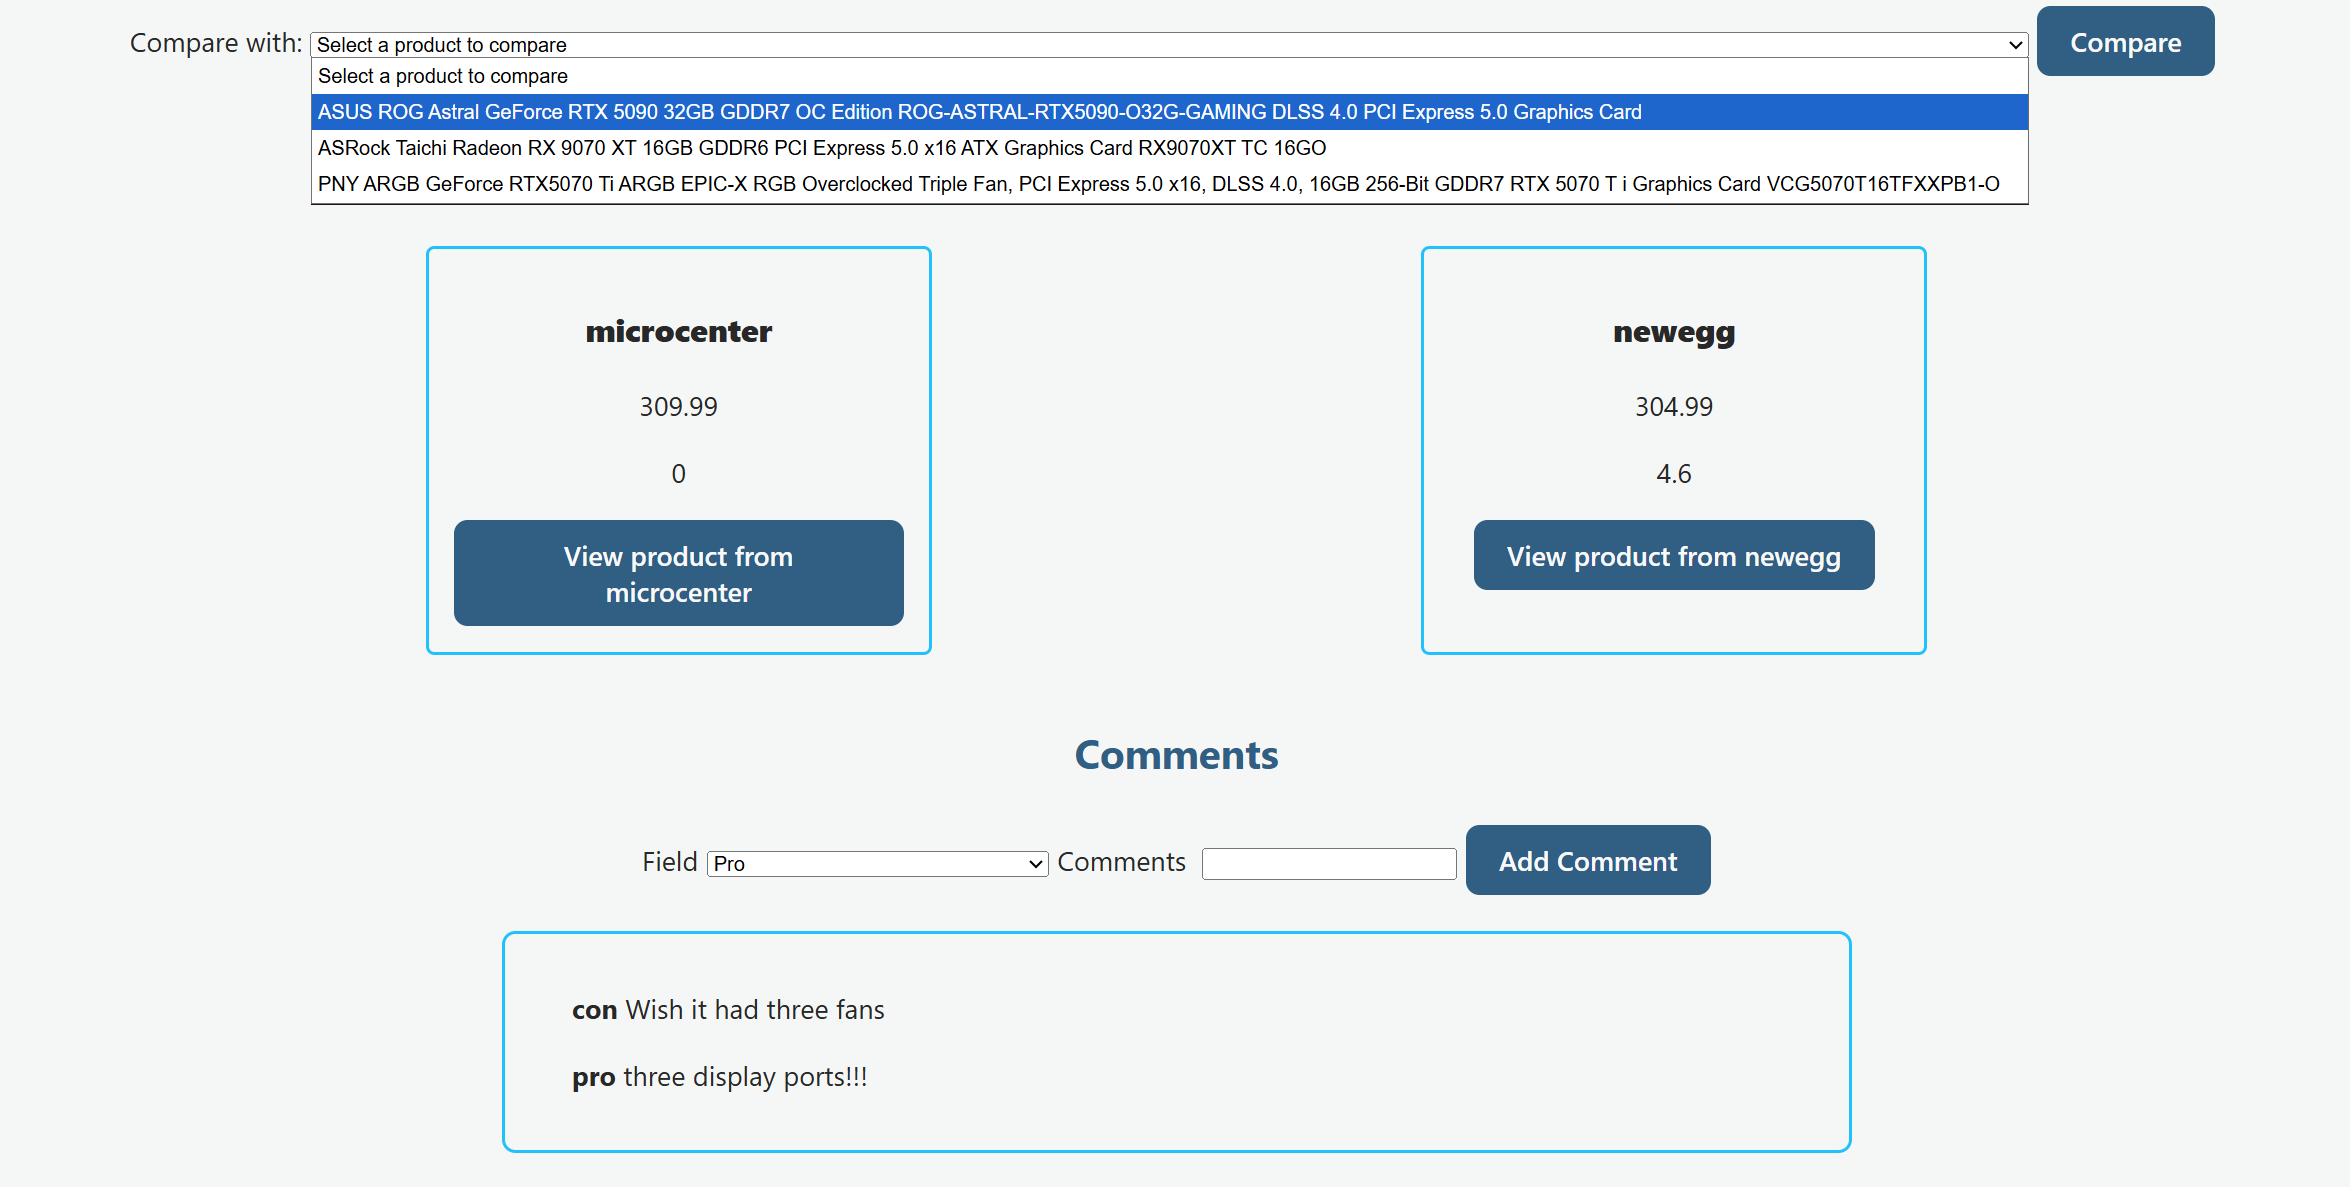
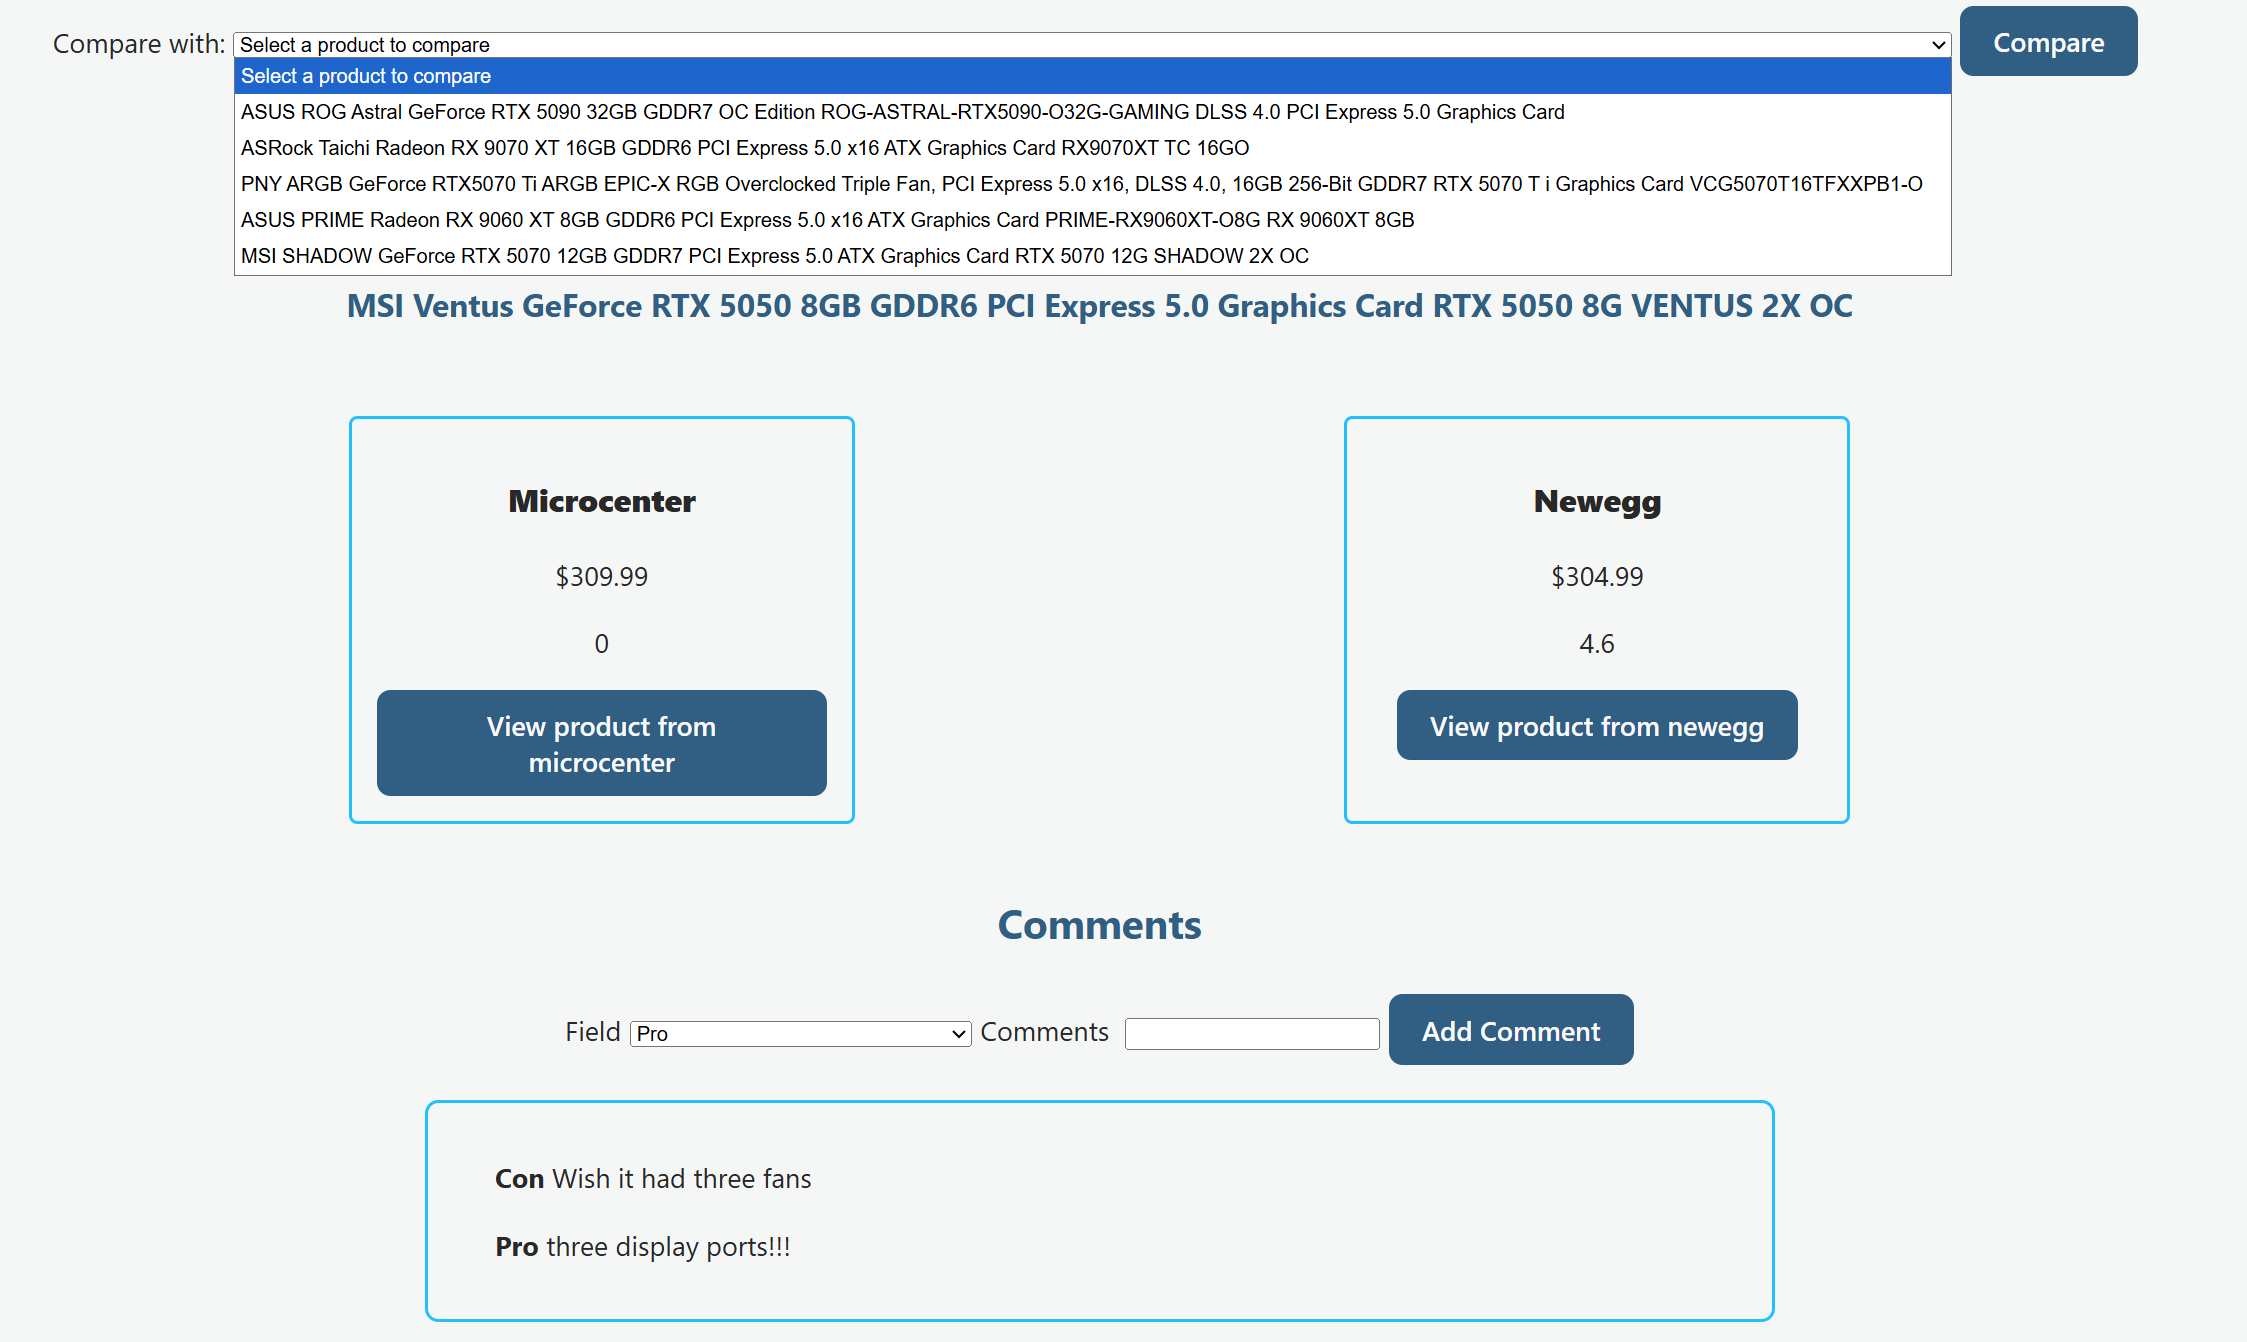
Changed pictures in slide show to match what website looks like. Letter formatting.

diff --git a/React/CompareProFrontEnd/src/Components/LandingSlideShow.jsx b/React/CompareProFrontEnd/src/Components/LandingSlideShow.jsx
@@ -4,17 +4,19 @@ import "../Pages/SignInSignUp.css"
 import slide1 from "../assets/CPUPage.png"
 import slide3 from "../assets/Comparison.png"
 import slide2 from "../assets/CommentandCompare.png"
+import slide4 from "../assets/PriceComp.png"
 
 //Function that creates a little slide show of images and tells the user what the can do on the component.
 export function SlideShow() {
     //Variable that gets the images.
-    const screenshots = [slide1, slide2, slide3]
+    const screenshots = [slide1, slide2, slide3, slide4]
 
     //Variable that sets the captions for each image.
     const captions = [
         "In a product page you can select minimum price and minimum rating.",
         "Add comments to products. Each product of the same category that has a comment can be selected to compare.",
-        "Looks at the details of the products that are wanting to be compared."
+        "Looks at the details of the products that are wanting to be compared.",
+        "Compare the prices between the websites to find the best deal."
     ]
 
     //Hook that sets the image that is displayed on the page.

diff --git a/React/CompareProFrontEnd/src/Components/CompareTable.jsx b/React/CompareProFrontEnd/src/Components/CompareTable.jsx
@@ -110,7 +110,7 @@ export function CompareTable() {
                                         <div key={i}>
                                             <strong>{(price.store)
                                                 .replace(/\b\w/g, char => char.toUpperCase())       
-                                            }</strong> ${price.price}
+                                            }</strong> {price.rating}
                                         </div>
                                     ))}
                                 </td>
@@ -119,7 +119,7 @@ export function CompareTable() {
                                         <div key={i}>
                                             <strong>{(price.store)
                                                 .replace(/\b\w/g, char => char.toUpperCase())       
-                                            }</strong> ${price.price}
+                                            }</strong> {price.rating}
                                         </div>
                                     ))}
                                 </td>
